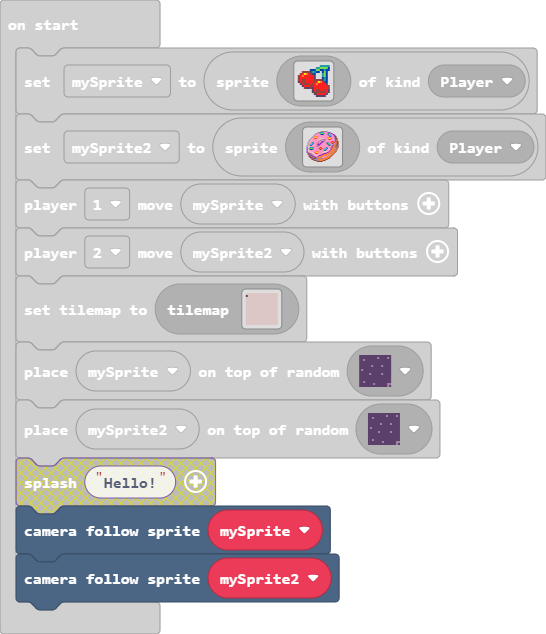
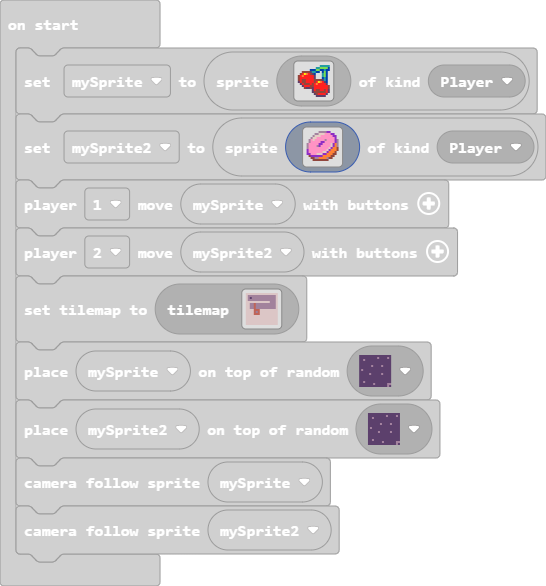
Update main.blocks, main.ts, tilemap.g.jres, tilemap.g.ts

diff --git a/tilemap.g.ts b/tilemap.g.ts
@@ -6,24 +6,24 @@ namespace myTiles {
     helpers._registerFactory("tilemap", function(name: string) {
         switch(helpers.stringTrim(name)) {
             case "level1":
-            case "level1":return tiles.createTilemap(hex`1000100001010101010101010101010101010101020101010101010101010101010101010101010101010101010101010101010101010101010101010101010101010101010101010101010101010101010101010101010101010101010101010101010101010101010101010101010101010101010101010101010101010101010101010101010101010101010101010101010101010101010101010101010101010101010101010101010101010101010101010101010101010101010101010101010101010101010101010101010101010101010101010101010101010101010101010101010101010101010101010101010101010101010101010101010101010101`, img`
-. . . . . . . . . . . . . . . . 
-. . . . . . . . . . . . . . . . 
-. . . . . . . . . . . . . . . . 
-. . . . . . . . . . . . . . . . 
-. . . . . . . . . . . . . . . . 
-. . . . . . . . . . . . . . . . 
-. . . . . . . . . . . . . . . . 
-. . . . . . . . . . . . . . . . 
-. . . . . . . . . . . . . . . . 
-. . . . . . . . . . . . . . . . 
-. . . . . . . . . . . . . . . . 
-. . . . . . . . . . . . . . . . 
-. . . . . . . . . . . . . . . . 
-. . . . . . . . . . . . . . . . 
-. . . . . . . . . . . . . . . . 
-. . . . . . . . . . . . . . . . 
-`, [myTiles.transparency16,sprites.dungeon.floorLight0,sprites.dungeon.darkGroundNorthWest1], TileScale.Sixteen);
+            case "level1":return tiles.createTilemap(hex`1000100001010101010101010101010101010101010303030303030303030303030303010103020303030303030303030303030101030303030303030303030303030301010101010101010101010101030303010101030305030303030303030303030101010303050303030303030303030301010103030503030303030303030303010101010105050501010101010101010101010101050405010101010101010101010101010505050101010101010101010101010101010101010101010101010101010101010101010101010101010101010101010101010101010101010101010101010101010101010101010101010101010101010101010101010101010101`, img`
+2 2 2 2 2 2 2 2 2 2 2 2 2 2 2 2 
+2 . . . . . . . . . . . . . . 2 
+2 . . . . . . . . . . . . . . 2 
+2 . . . . . . . . . . . . . . 2 
+2 2 2 2 2 2 2 2 2 2 2 2 . . . 2 
+2 2 . . . . . . . . . . . . . 2 
+2 2 . . . . . . . . . . . . . 2 
+2 2 . . . . . . . . . . . . . 2 
+2 2 2 2 . . . 2 2 2 2 2 2 2 2 2 
+2 2 2 2 . . . 2 2 2 2 2 2 2 2 2 
+2 2 2 2 . . . 2 2 2 2 2 2 2 2 2 
+2 2 2 2 2 2 2 2 2 2 2 2 2 2 2 2 
+2 2 2 2 2 2 2 2 2 2 2 2 2 2 2 2 
+2 2 2 2 2 2 2 2 2 2 2 2 2 2 2 2 
+2 2 2 2 2 2 2 2 2 2 2 2 2 2 2 2 
+2 2 2 2 2 2 2 2 2 2 2 2 2 2 2 2 
+`, [myTiles.transparency16,sprites.dungeon.floorLight0,sprites.dungeon.darkGroundNorthWest1,sprites.dungeon.floorDark0,sprites.dungeon.floorDarkDiamond,sprites.dungeon.stairLadder], TileScale.Sixteen);
         }
         return null;
     })

diff --git a/main.ts b/main.ts
@@ -17,38 +17,22 @@ let mySprite = sprites.create(img`
     . . . . . . . . . c c c c c . . 
     `, SpriteKind.Player)
 let mySprite2 = sprites.create(img`
-    ..............bbbbbbb...........
-    ...........bb66663333baa........
-    .........bb3367776333663aa......
-    ........b33333888333389633aa....
-    .......b3333333333333389633aa...
-    ......b34443333333333338633bae..
-    .....b3455433333333334443333ae..
-    ....b33322333dddd3333455233daee.
-    ...b3d333333dd3bbbb33322333dabe.
-    ..b3d333333d3bb33bb33333333da4e.
-    ..bd33333333b33aab3333333223a4ee
-    .b3d3663333b33aab33366332442b4ee
-    .bd3b983333a3aa3333387633ee3b4ee
-    .bd6983333baaa333333387633bb4bee
-    b3d6833333bba333333333863ba44ebe
-    bdd3333333bb3333333333333a44bebe
-    add666633333322333366333ba44bbbe
-    ad67776333332442336983d3a444b4e.
-    add888b333333ee3369833d3a44b44e.
-    add333333333333336833d3a444b4e..
-    a3dd3333344433333dddd3a444b44e..
-    ab33ddd325543333dd33aa444b44e...
-    .eabb3dd32233333baaa4444b44e....
-    .ebabb3d333d33baa444443b44e.....
-    ..ebaab3ddd3aaa4444433b44e......
-    ..eebbaab33a44444333b444e.......
-    ...eeebbaab444b333b4444e........
-    ....ebeeebbbbbbbb4444ee.........
-    .....eebbbb44444444ee...........
-    .......eeebbb444eee.............
-    ..........eeeeee................
-    ................................
+    . . . . . . b b b b a a . . . . 
+    . . . . b b d d d 3 3 3 a a . . 
+    . . . b d d d 3 3 3 3 3 3 a a . 
+    . . b d d 3 3 3 3 3 3 3 3 3 a . 
+    . b 3 d 3 3 3 3 3 b 3 3 3 3 a b 
+    . b 3 3 3 3 3 a a 3 3 3 3 3 a b 
+    b 3 3 3 3 3 a a 3 3 3 3 d a 4 b 
+    b 3 3 3 3 b a 3 3 3 3 3 d a 4 b 
+    b 3 3 3 3 3 3 3 3 3 3 d a 4 4 e 
+    a 3 3 3 3 3 3 3 3 3 d a 4 4 4 e 
+    a 3 3 3 3 3 3 3 d d a 4 4 4 e . 
+    a a 3 3 3 d d d a a 4 4 4 e e . 
+    . e a a a a a a 4 4 4 4 e e . . 
+    . . e e b b 4 4 4 4 b e e . . . 
+    . . . e e e e e e e e . . . . . 
+    . . . . . . . . . . . . . . . . 
     `, SpriteKind.Player)
 controller.player1.moveSprite(mySprite)
 controller.player2.moveSprite(mySprite2)
